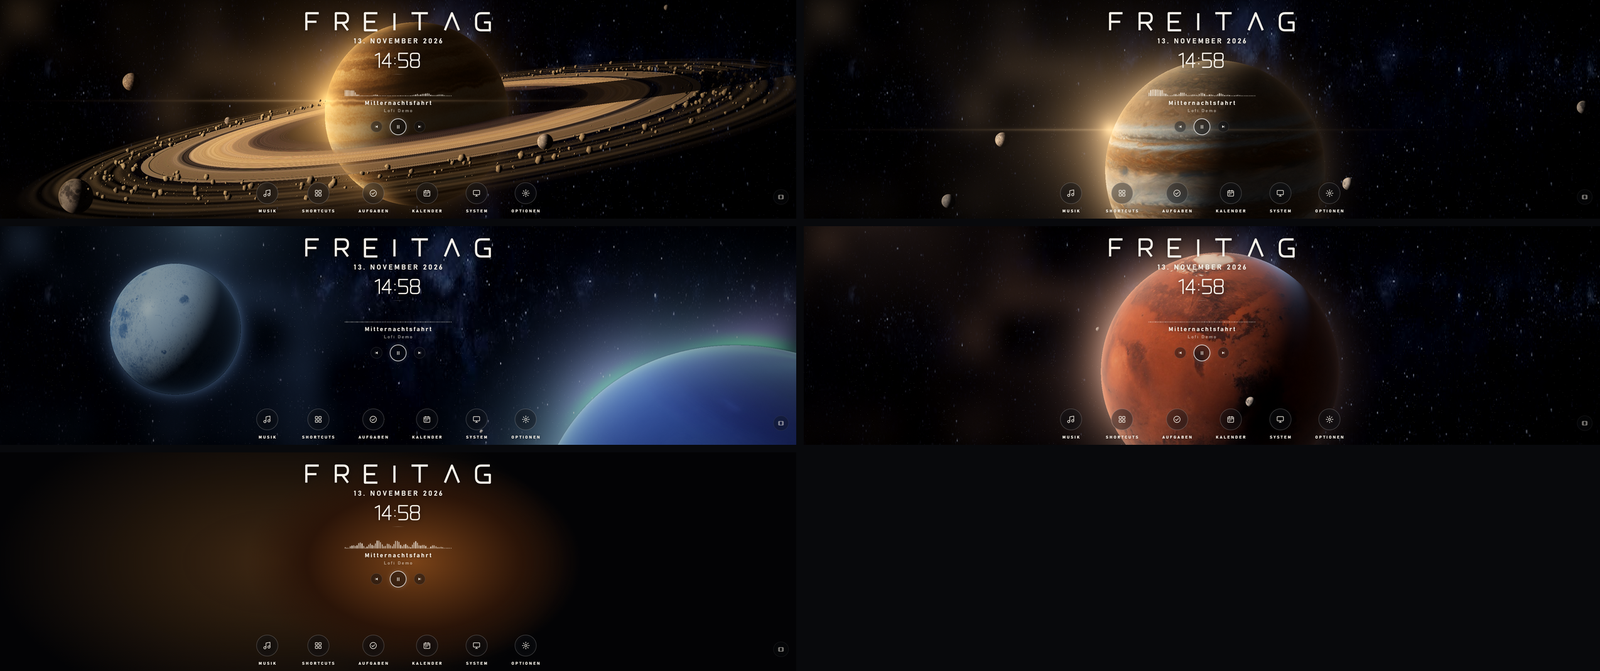
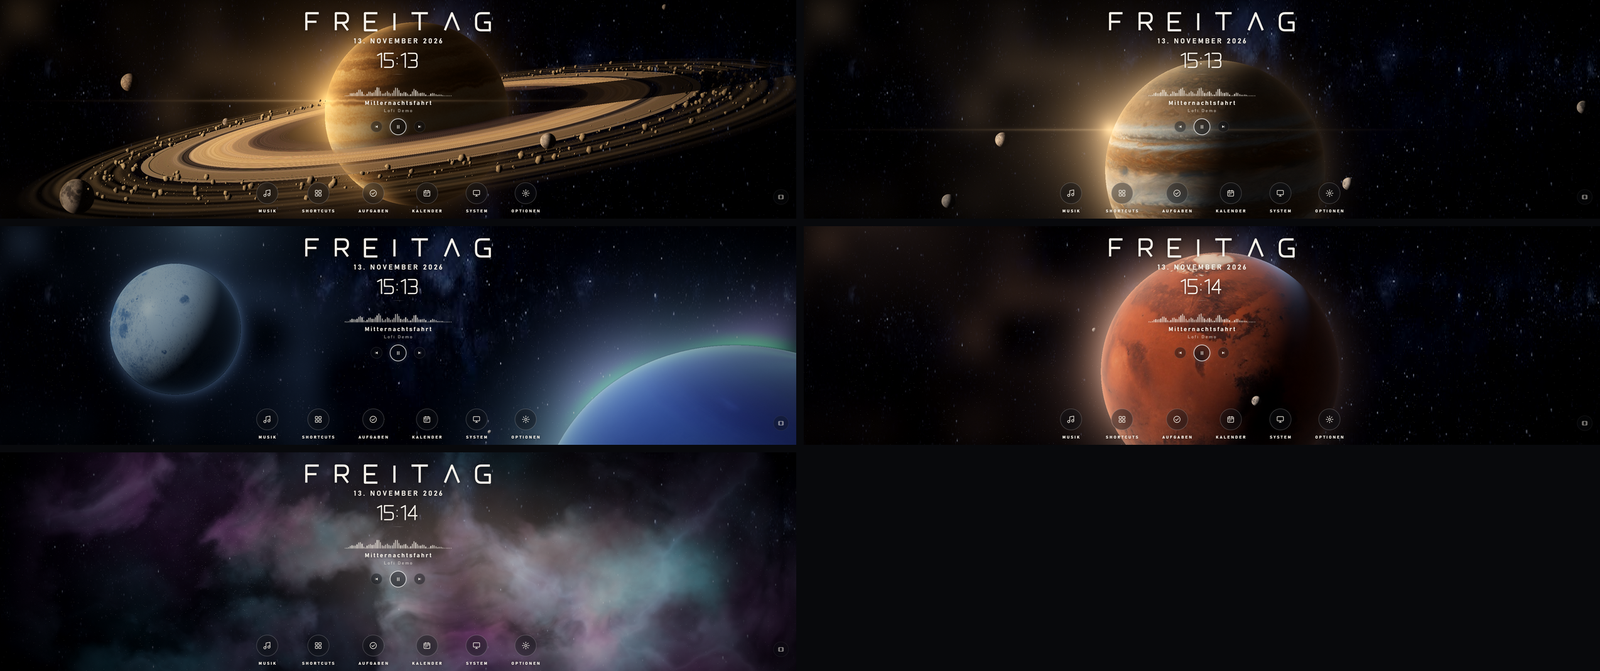
Clean up build warnings, move actions to Node 24, fix German scene overview
- SetupWizard: build the pages before wiring the buttons (nullable warning) and
  rename the Text() helper so it no longer hides Form.Text
- CI/release: actions/checkout, setup-dotnet and setup-node v5 (Node 24), Node 22
- docs/images/de/scenes.png: the Nebula tile had fallen back to the still image

diff --git a/hub/Tray/SetupWizard.cs b/hub/Tray/SetupWizard.cs
@@ -45,6 +45,7 @@ internal sealed class SetupWizard : HubForm
         header.Controls.Add(_stepLabel);
         header.Controls.Add(_heading);
 
+        _pages = [BuildWelcome(), BuildWidget(afterUpdate)];
         var cancel = new Button { Text = Strings.Cancel, DialogResult = DialogResult.Cancel };
         _back.Click += (_, _) => GoTo(_page - 1);
         _next.Click += (_, _) =>
@@ -55,7 +56,6 @@ internal sealed class SetupWizard : HubForm
         };
         CancelButton = cancel;
 
-        _pages = [BuildWelcome(), BuildWidget(afterUpdate)];
         Controls.Add(_content);
         Controls.Add(header);
         Controls.Add(ButtonRow(_next, _back, cancel));
@@ -67,7 +67,7 @@ internal sealed class SetupWizard : HubForm
         Dock = DockStyle.Fill, FlowDirection = FlowDirection.TopDown, WrapContents = false, AutoScroll = true,
     };
 
-    private static Label Text(string text, bool dim = false) => new()
+    private static Label Paragraph(string text, bool dim = false) => new()
     {
         Text = text, AutoSize = true, MaximumSize = new Size(ContentWidth, 0), Margin = new Padding(0, 0, 0, 12),
         UseMnemonic = false, // "&" is text here ("Zoom & Co."), not a keyboard shortcut
@@ -77,15 +77,15 @@ internal sealed class SetupWizard : HubForm
     private Control BuildWelcome()
     {
         var col = Column();
-        col.Controls.Add(Text(Strings.WelcomeText));
-        col.Controls.Add(Text(Strings.PrivacyNote, dim: true));
+        col.Controls.Add(Paragraph(Strings.WelcomeText));
+        col.Controls.Add(Paragraph(Strings.PrivacyNote, dim: true));
         return col;
     }
 
     private Control BuildWidget(bool afterUpdate)
     {
         var col = Column();
-        col.Controls.Add(Text(afterUpdate ? Strings.UpdatedText : Strings.WidgetText));
+        col.Controls.Add(Paragraph(afterUpdate ? Strings.UpdatedText : Strings.WidgetText));
         var install = new Button { Text = Strings.WidgetInstall, AutoSize = true, Padding = new Padding(12, 6, 12, 6), Margin = new Padding(0, 0, 0, 8) };
         install.Click += (_, _) => InstallWidget();
         col.Controls.Add(install);
